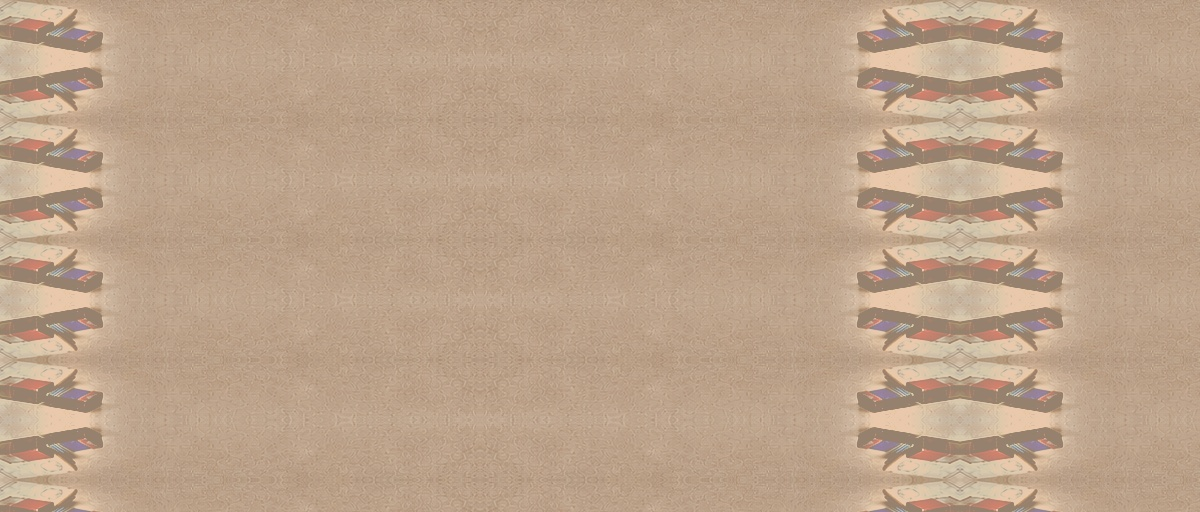
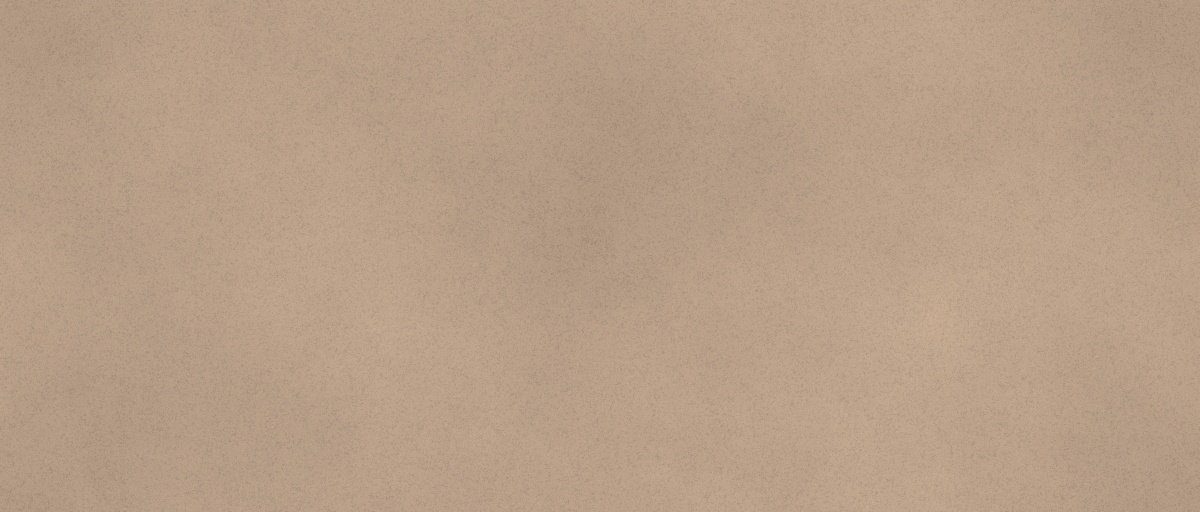
Expo: the founding bench returns whole at a computed scale, and the projector stops sliding — the bench is sized so its own counter depth matches the room's, 71 px of photograph onto 74 px of hall, front edge to front edge and back edge to the wall, which lands it a fifth smaller with the lamp clear

Changed region(s): [[0.7092, 0.0, 0.8942, 1.0], [0.0, 0.0, 0.1233, 1.0]]

diff --git a/expo/expo.html b/expo/expo.html
@@ -1751,7 +1751,7 @@ let SEAM_VIDEO = null;
    lamp breathes, the gate weaves a hair, and the throw is keystoned because
    the machine sits below the centre of its own picture. */
 const PROJECTORS = [
-  {x: SHIFT(12590), wallDX: 240, w: 1560, cy: 470, src: 'media/jim_glass.mp4', throwZ: 210,
+  {x: SHIFT(12590), wallDX: 240, w: 1560, cy: 470, src: 'media/jim_glass.mp4', throwZ: 30,
    clip: {name: 'Jim Glidewell', label: 'on the bench that started it', src: 'media/jim_glass.mp4'}},
 ];
 function initProjectors(){
@@ -1794,7 +1794,9 @@ function drawProjectors(t, phase){
     const seg = segAt(p.x);
     const wz = (seg.z0 || 550) - 6;
     const kk = k(wz);
-    const sx = wallSX(p.x, p.wallDX, kk);   // exhibition plane, like every wall thing
+    // the frame takes its offset in WORLD units, the same units the machine
+    // below uses, so the two never drift apart and the beam stays true
+    const sx = px(p.x + p.wallDX, k(exhibitZ(p.x)));
     // the gate is sized to the reel AFTER its black ears are cut: a 4:3 film
     // gets a 4:3 rectangle, fitted inside the same box, never stretched
     const c0 = p.crop || {x0: 0, x1: 1};
@@ -1815,7 +1817,7 @@ function drawProjectors(t, phase){
 
     // the machine, standing on the bench below the picture
     const kp = k(p.throwZ);
-    const mxp = px(p.x + p.wallDX, kp), myp = py(CFG.benchY - 2, kp);
+    const mxp = px(p.x + p.wallDX, kp), myp = py(CFG.benchY - 2, kp);   // same world x as the frame
     const bw = 150 * kp * SS, bh = 74 * kp * SS;
 
     if (phase === 'machine'){ projMachine(p, t, lamp, mxp, myp, bw, bh, kp); continue; }
@@ -3095,15 +3097,14 @@ const PHOTO_SKIN = !/[?&]skin=flat/.test(location.search);
    their own depth and can be lit and clicked like everything else in the hall.
    A plate WITH objects baked in must stay single-layer (`layers` omitted):
    flat, at wall depth, where nothing inside it can slide against anything. */
-/* The founding bench: only what STANDS on it. The counter and the cabinets
-   came out of this same photograph and are already the hall's own material, so
-   carrying a second counter on top of the first bought nothing and cost a
-   visible joint — and matching the plate's cabinets to the room's forced its
-   objects to a size that ran into the year above them. Cropped to the still
-   life alone, it simply stands on the counter and can be scaled freely. */
+/* The founding bench, whole. Its scale is not chosen by eye: the counter's own
+   top surface — from where the wall meets it to its front edge — is made to
+   match the hall's, 71 px of photograph onto 74 px of room. Front edge to front
+   edge, back edge to the wall; everything else then follows, and the picture
+   comes out a fifth smaller than it was. */
 const PLATES = GAP.on ? [{
-  x: bayStart(1) + CUTS[1].w / 2, sw: 547, benchFrac: 1.0,
-  layers: [{img: 'bench_objects.png', z: 0}],
+  x: bayStart(1) + CUTS[1].w / 2, sw: 1874, benchFrac: 0.611,
+  layers: [{img: 'plate_bay_front.png', z: 0}],
 }] : [];
 async function loadPlates(){
   const jobs = [];
